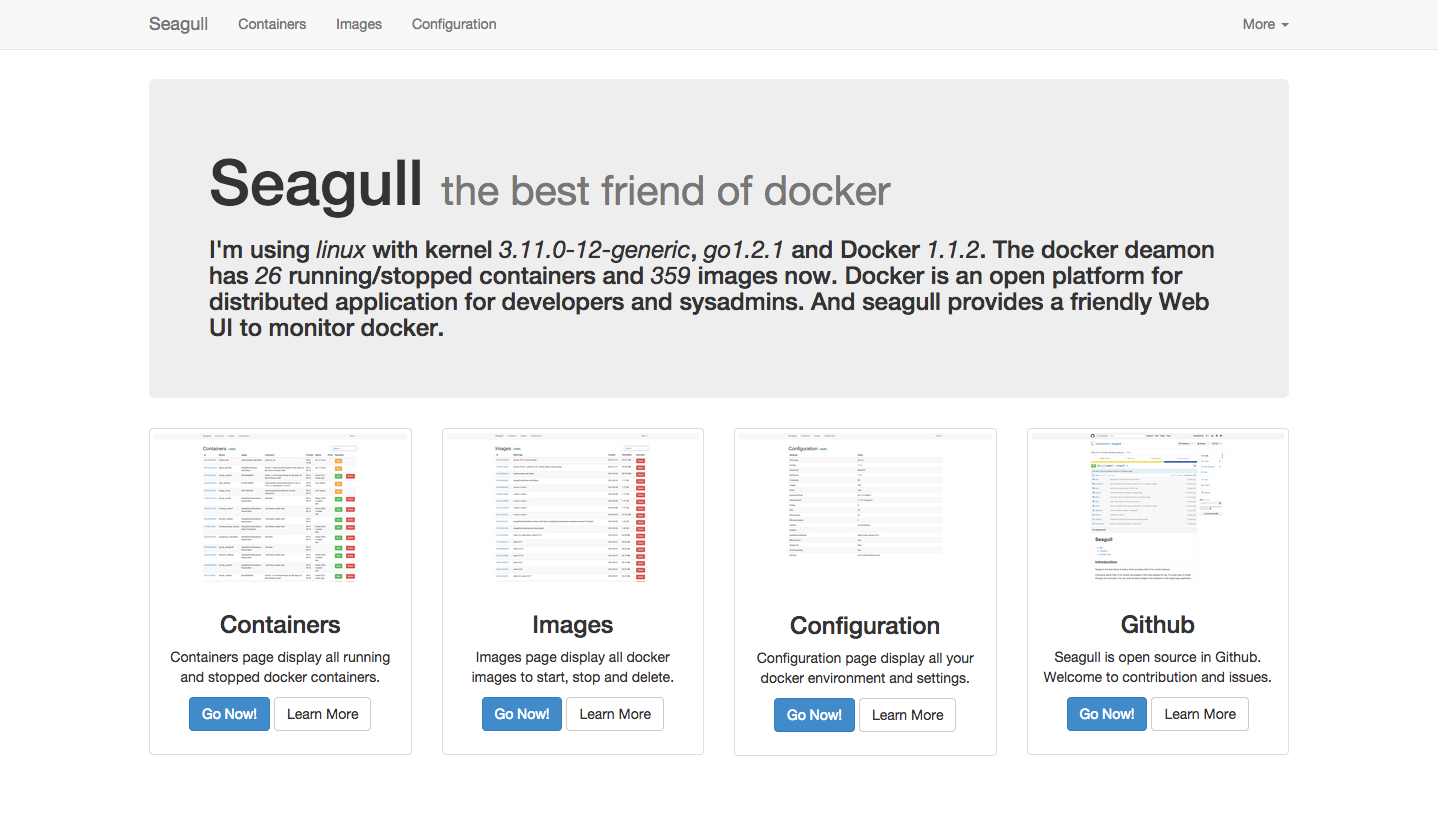
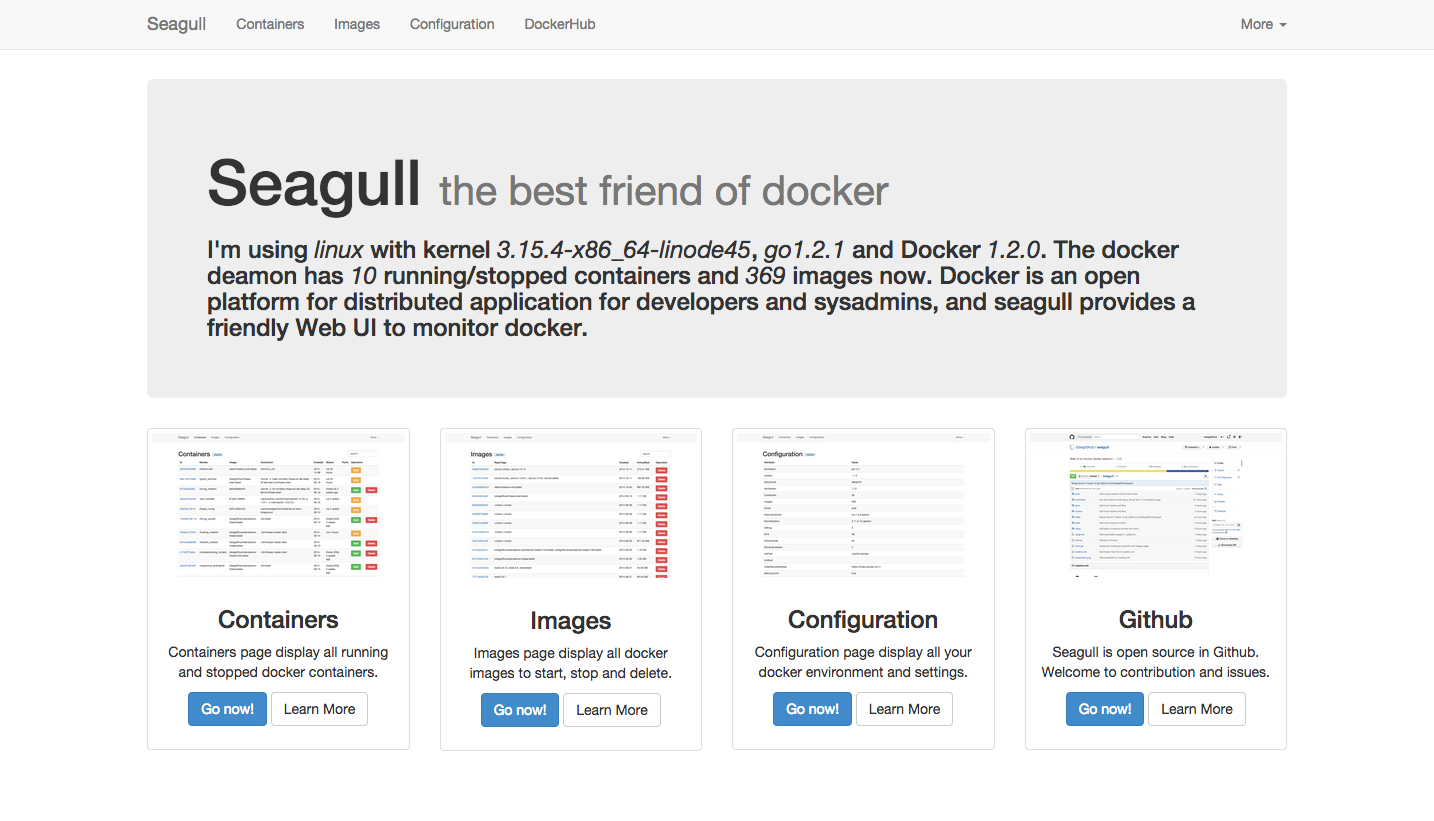
Update the screenshots of seagull

diff --git a/docs/readme.md b/docs/readme.md
@@ -47,4 +47,4 @@ No all the articles are translated into Chinese. If you need other languages, le
 * [使用Bower管理依赖](2014-10-26-use-bower-to-manage-dependency-zh.md)
 * [海鸥的Bootstrap使用](2014-10-27-how-seagull-use-bootstrap-zh.md)
 * [使用JQuery.gritter实现通知](2014-10-28-use-jquerygritter-for-notification-zh.md)
-* [使用animate.css](2014-10-30-use-animate-css-zh.md)
+* [使用Animate.css](2014-10-30-use-animate-css-zh.md)
